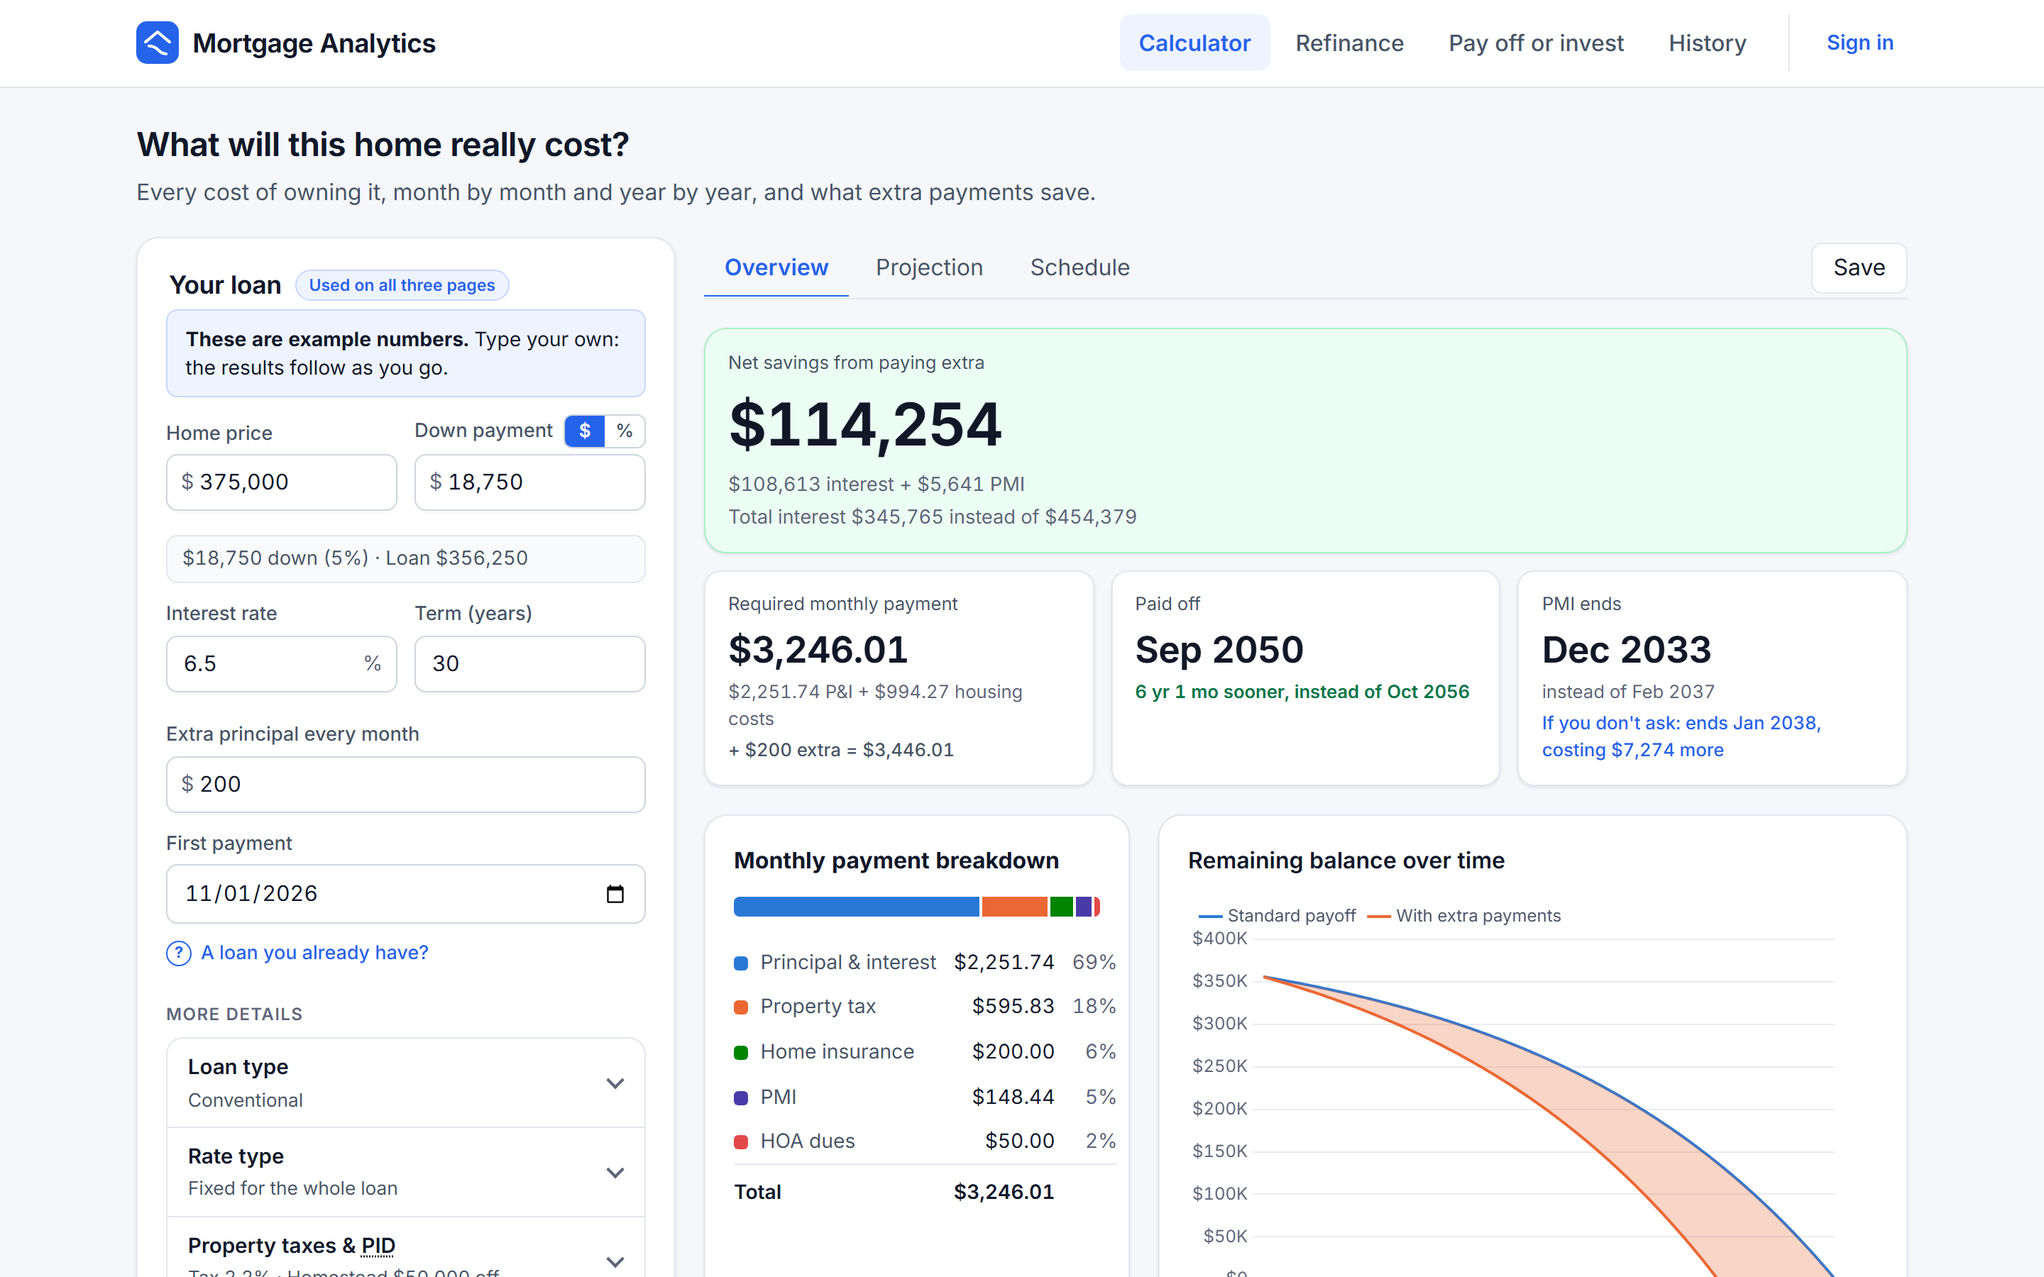
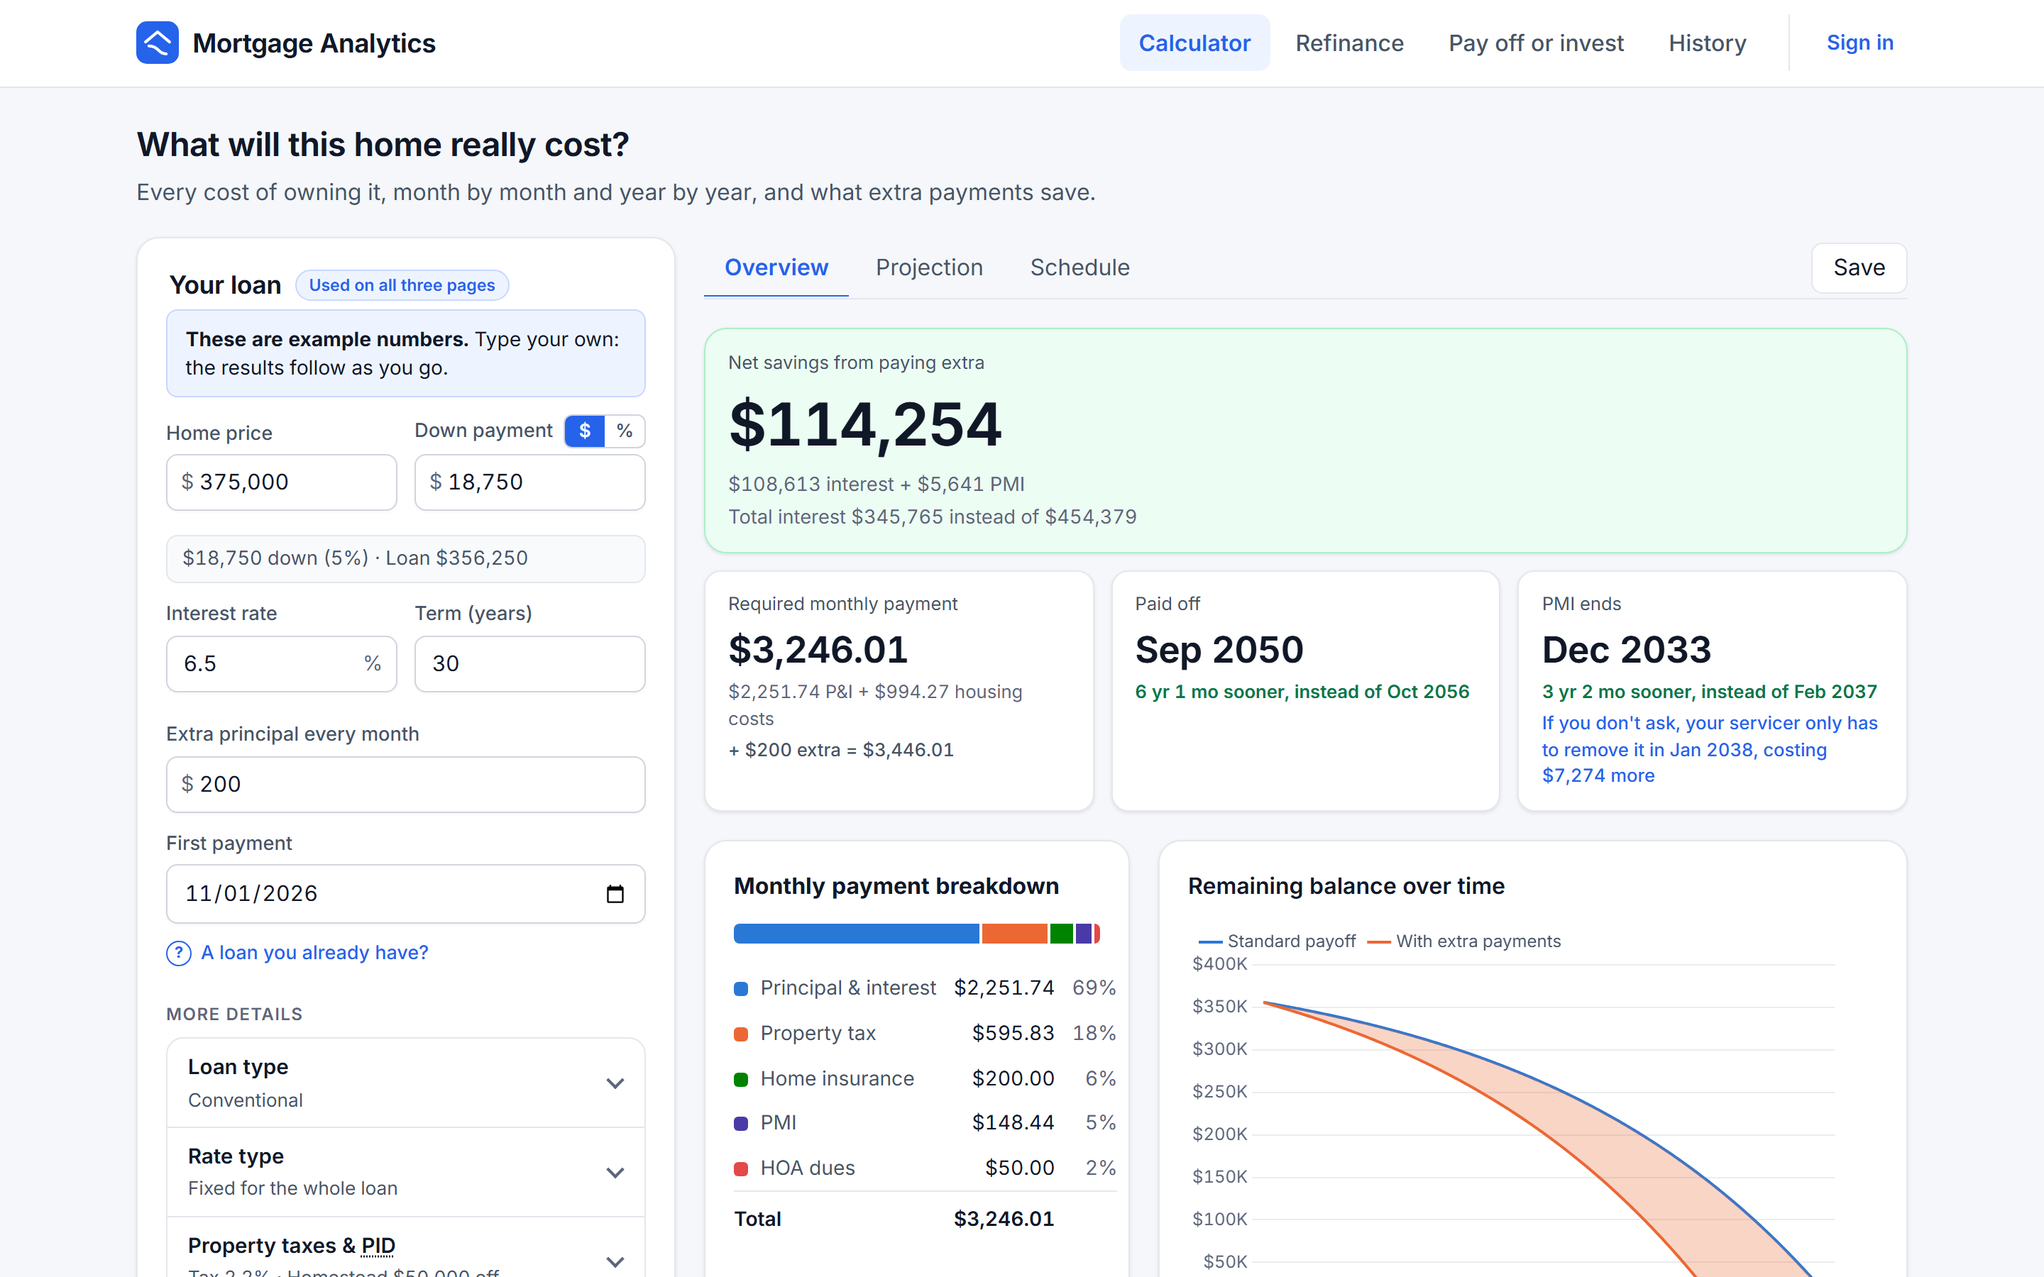
Mutation tests for the PMI work, a projection that agrees, and a review's fixes
Mutation runs (local):
- Domain 98.3%, Application 97.8%, Angular 98.0%; every mutant in the new
  PMI code is killed. New tests: a 0% PMI rate, PMI on the current loan
  only, the exact PMI end date, the 401(k) bringing income under the PMI
  deduction's limit, no PMI suggestion at the midpoint or on FHA, and what
  the Refinance and Pay off or invest stores share.

A page-by-page review:
- The Projection took PMI from the schedule without extra payments
  ($18,407 to year 11) while the Overview said $12,766 to Dec 2033. It now
  follows the plan with its extra payments, as the independent model does
  (300/300 purchases identical).
- The PMI tile says "3 yr 2 mo sooner, instead of Feb 2037", like the
  payoff tile, and "If you don't ask, your servicer only has to remove it
  in Jan 2038": the latest the law requires, not a forecast.
- History's filter and search fit a phone.

Changed region(s): [[0.3438, 0.6533, 0.9062, 1.0], [0.75, 0.5289, 0.9062, 0.6222]]

diff --git a/client/src/app/features/calculator/savings-summary/savings-summary.component.ts b/client/src/app/features/calculator/savings-summary/savings-summary.component.ts
@@ -77,7 +77,7 @@ const TAXES: readonly [keyof HousingCosts, string][] = [
           <dt>{{ insuranceName() }} ends</dt>
           <dd data-testid="pmi-end">{{ pmiEnd | date: 'MMM yyyy' }}</dd>
           @if (r.baseline.mortgageInsuranceEndDate !== pmiEnd) {
-            <dd class="note">instead of {{ r.baseline.mortgageInsuranceEndDate | date: 'MMM yyyy' }}</dd>
+            <dd class="note gain" data-testid="pmi-sooner">{{ pmiSooner() }} sooner, instead of {{ r.baseline.mortgageInsuranceEndDate | date: 'MMM yyyy' }}</dd>
           } @else {
             <dd class="note">{{ r.purchase.downPaymentPercent }}% down</dd>
           }
@@ -87,7 +87,8 @@ const TAXES: readonly [keyof HousingCosts, string][] = [
               @if (other.removal === 'BorrowerRequested') {
                 Ask your lender at 80%: ends {{ other.endDate | date: 'MMM yyyy' }}, saving {{ other.savedByAsking | currency: 'USD' : 'symbol' : '1.0-0' }}
               } @else {
-                If you don't ask: ends {{ other.endDate | date: 'MMM yyyy' }}, costing {{ other.savedByAsking | currency: 'USD' : 'symbol' : '1.0-0' }} more
+                <!-- Automatic removal is the latest the law requires; some servicers drop it sooner, but none has to. -->
+                If you don't ask, your servicer only has to remove it in {{ other.endDate | date: 'MMM yyyy' }}, costing {{ other.savedByAsking | currency: 'USD' : 'symbol' : '1.0-0' }} more
               }
             </dd>
           }
@@ -189,6 +190,13 @@ export class SavingsSummaryComponent {
 
   /** Payments saved, formatted as years and months. */
   readonly timeSaved = computed(() => formatMonths(this.result().savings.paymentsSaved));
+
+  /** How much sooner extra payments end the mortgage insurance, e.g. "3 yr 2 mo", like the payoff tile's time saved. */
+  readonly pmiSooner = computed(() => {
+    const { baseline, accelerated } = this.result();
+    const months = (iso: string | null | undefined) => (iso ? Number(iso.slice(0, 4)) * 12 + Number(iso.slice(5, 7)) : 0);
+    return formatMonths(months(baseline.mortgageInsuranceEndDate) - months(accelerated.mortgageInsuranceEndDate));
+  });
 
   /**
    * Where the net savings come from, e.g. "$79,801 interest + $6,531 PMI − $250 fees", or null when it is all

diff --git a/client/src/app/features/calculator/calculator.store.spec.ts b/client/src/app/features/calculator/calculator.store.spec.ts
@@ -7,7 +7,7 @@ import { SavedCalculation } from '../../core/models/saved-calculation.models';
 import { RefinanceRequest } from '../../core/models/refinance.models';
 import { firstOfMonthFromNext, loanToday } from '../../core/loans/loan-progress';
 import { SharedLoan, SharedLoanStore } from '../../core/state/shared-loan.store';
-import { CalculatorStore, RECALCULATE_DELAY_MS } from './calculator.store';
+import { CalculatorStore, RECALCULATE_DELAY_MS, monthlyPmiOf } from './calculator.store';
 
 describe('CalculatorStore', () => {
   let store: CalculatorStore;
@@ -157,5 +157,24 @@ describe('CalculatorStore', () => {
         expect(sharesAfter({ ...started, ...change } as AmortizationRequest, sharedStarted)).toBe(true);
       });
     });
+  });
+});
+
+describe('monthlyPmiOf', () => {
+  const fivePercentDown = { homePrice: 375_000, downPayment: 18_750, housingCosts: { pmiRate: 0.5 } } as AmortizationRequest;
+
+  it('is the yearly rate on the loan, a twelfth a month, when more than 80% is borrowed', () => {
+    expect(monthlyPmiOf(fivePercentDown)).toBe(148.44); // 0.5% of $356,250 / 12
+  });
+
+  it('is 0 with 20% down, or no PMI rate', () => {
+    expect(monthlyPmiOf({ ...fivePercentDown, downPayment: 75_000 })).toBe(0);
+    expect(monthlyPmiOf({ ...fivePercentDown, housingCosts: undefined })).toBe(0);
+    expect(monthlyPmiOf({ ...fivePercentDown, housingCosts: { ...fivePercentDown.housingCosts!, pmiRate: 0 } })).toBe(0);
+  });
+
+  it('is not said for FHA or VA, whose mortgage insurance is not PMI', () => {
+    expect(monthlyPmiOf({ ...fivePercentDown, program: { type: 'Fha' } } as AmortizationRequest)).toBeNull();
+    expect(monthlyPmiOf({ ...fivePercentDown, program: { type: 'Conventional' } } as AmortizationRequest)).toBe(148.44);
   });
 });

diff --git a/client/src/app/features/strategy/strategy.store.spec.ts b/client/src/app/features/strategy/strategy.store.spec.ts
@@ -3,6 +3,7 @@ import { of } from 'rxjs';
 import { StrategyComparison, StrategyRequest } from '../../core/models/strategy.models';
 import { StrategyApiService } from '../../core/services/strategy-api.service';
 import { RECALCULATE_DELAY_MS } from '../../core/state/latest-request';
+import { SharedLoanStore } from '../../core/state/shared-loan.store';
 import { StrategyStore } from './strategy.store';
 
 describe('StrategyStore', () => {
@@ -23,5 +24,20 @@ describe('StrategyStore', () => {
     expect(store.saved()).toEqual({ id: 's1', name: 'Pay off?' });
     expect(compare).toHaveBeenCalledWith(strategy);
     jest.useRealTimers();
+  });
+
+  it('shares the PMI on the loan, and none when the request gives none', () => {
+    TestBed.configureTestingModule({ providers: [{ provide: StrategyApiService, useValue: { compare: jest.fn().mockReturnValue(of({})) } }] });
+    const store = TestBed.inject(StrategyStore);
+    const shared = TestBed.inject(SharedLoanStore);
+    const request = { currentBalance: 370_000, annualInterestRate: 6.5, remainingTermInMonths: 360, homeValue: 400_000 } as StrategyRequest;
+
+    store.send(request); // the page's example, which is not shared
+    store.send({ ...request, monthlyPmi: 150 });
+    const withPmi = shared.change()!.loan.monthlyPmi;
+    store.send({ ...request, currentBalance: 360_000 });
+
+    expect(withPmi).toBe(150);
+    expect(shared.change()!.loan.monthlyPmi).toBe(0);
   });
 });

diff --git a/client/e2e/calculator.spec.ts b/client/e2e/calculator.spec.ts
@@ -265,10 +265,10 @@ test.describe('Mortgage calculator', () => {
     await calculator.calculate();
 
     await expect(calculator.pmiEnd, 'requested removal uses the actual balance: payment 62').toHaveText('Feb 2041');
-    await expect(calculator.message('instead of Apr 2046'), 'instead of payment 124').toBeVisible();
+    await expect(calculator.message('5 yr 2 mo sooner, instead of Apr 2046'), 'payment 62 instead of 124').toBeVisible();
     await expect(calculator.savingsDetail, 'the PMI saved is part of net savings').toContainText('+ $6,136 PMI');
     await expect(calculator.pmiOtherChoice, 'not asking would keep it to payment 135: $13,359.60 - $6,135.52 more')
-      .toHaveText("If you don't ask: ends Mar 2047, costing $7,224 more");
+      .toHaveText("If you don't ask, your servicer only has to remove it in Mar 2047, costing $7,224 more");
   });
 
   test('automatic PMI removal follows the original schedule, so extra payments do not move it', async ({ calculator }) => {

diff --git a/client/src/app/features/calculator/savings-summary/savings-summary.component.spec.ts b/client/src/app/features/calculator/savings-summary/savings-summary.component.spec.ts
@@ -225,7 +225,7 @@ describe('SavingsSummaryComponent', () => {
     }));
 
     expect(text('pmi-end')).toBe('Sep 2031');
-    expect(fixture.nativeElement.textContent).toContain('instead of Mar 2037');
+    expect(text('pmi-sooner')).toBe('5 yr 6 mo sooner, instead of Mar 2037'); // like the payoff tile beside it
   });
 
   it("names an FHA loan's mortgage insurance MIP", () => {
@@ -283,7 +283,7 @@ describe('SavingsSummaryComponent', () => {
     it('says what not asking would cost, since the results assume the borrower asks', () => {
       render(withPmi({ removal: 'Automatic', endDate: '2038-01-01', savedByAsking: 4_947.98 }));
 
-      expect(text('pmi-other-choice')).toBe("If you don't ask: ends Jan 2038, costing $4,948 more");
+      expect(text('pmi-other-choice')).toBe("If you don't ask, your servicer only has to remove it in Jan 2038, costing $4,948 more");
     });
 
     it('says nothing when both ways end it together', () => {

diff --git a/client/src/app/features/refinance/refinance.store.spec.ts b/client/src/app/features/refinance/refinance.store.spec.ts
@@ -86,4 +86,18 @@ describe('RefinanceStore and the shared loan', () => {
 
     expect(analyze).not.toHaveBeenCalled();
   });
+
+  it("shares the home's value and today's PMI, and neither when no value is given", () => {
+    const { store, shared } = setUp();
+    store.send(loan()); // the page's example, which is not shared
+    store.send(loan({ homeValue: 360_000, currentMonthlyPmi: 120 }));
+    const withPmi = { ...shared.change()!.loan };
+    store.send(loan({ currentBalance: 290_000, homeValue: 360_000 }));
+    const noPmiGiven = shared.change()!.loan.monthlyPmi;
+    store.send(loan({ currentBalance: 280_000 }));
+
+    expect(withPmi).toEqual(expect.objectContaining({ homeValue: 360_000, monthlyPmi: 120 }));
+    expect(noPmiGiven).toBe(0);
+    expect(shared.change()!.loan).toEqual(expect.objectContaining({ balance: 280_000, homeValue: 360_000, monthlyPmi: 0 })); // kept
+  });
 });

diff --git a/client/src/app/features/strategy/strategy-text.spec.ts b/client/src/app/features/strategy/strategy-text.spec.ts
@@ -87,6 +87,9 @@ describe('strategy text', () => {
       expect(facts(result)).toContain("Your PMI ends once you owe 80% of the home's value: Feb 2030 if you pay down first, Feb 2035 if you invest. "
         + "Paying down saves $9,000 of it, a return investing doesn't earn.");
       expect(facts(base).some((line) => line.includes('PMI'))).toBe(false);
+
+      const atOnce = { ...result, strategies: [withPmi('PayOffFirst', 0, null as unknown as string), ...result.strategies.slice(1)] };
+      expect(facts(atOnce).find((line) => line.includes('PMI'))).toContain('at once if you pay down first, Feb 2035 if you invest');
     });
 
     it('blends the IRA with a taxable account, taxed only when sold', () => {

diff --git a/client/src/app/features/calculator/calculator.store.ts b/client/src/app/features/calculator/calculator.store.ts
@@ -83,6 +83,5 @@ export class CalculatorStore extends CalculationStore<AmortizationRequest, Amort
 export function monthlyPmiOf(request: AmortizationRequest): number | null {
   if (request.program && request.program.type !== 'Conventional') return null;
   const loan = request.homePrice - request.downPayment;
-  const rate = request.housingCosts?.pmiRate ?? 0;
-  return loan > request.homePrice * 0.8 && rate > 0 ? toCents((loan * rate) / 100 / 12) : 0;
+  return loan > request.homePrice * 0.8 ? toCents((loan * (request.housingCosts?.pmiRate ?? 0)) / 100 / 12) : 0;
 }

diff --git a/client/src/app/features/history/history-page.component.scss b/client/src/app/features/history/history-page.component.scss
@@ -205,9 +205,25 @@ button {
   padding: 0.9rem 1.1rem;
 }
 
-// One column on a phone: filters and search start at the left, under the title.
+// One column on a phone: filters and search start at the left, under the title, each the full width, with every
+// filter on one line.
 @media (max-width: 640px) {
   .filters {
     justify-content: flex-start;
+  }
+
+  .toggle {
+    display: flex;
+    width: 100%;
+
+    button {
+      flex: 1 1 auto;
+      padding-inline: 0.5rem;
+      white-space: nowrap;
+    }
+  }
+
+  .search {
+    width: 100%;
   }
 }

diff --git a/client/src/app/features/calculator/cost-projection/cost-totals.component.ts b/client/src/app/features/calculator/cost-projection/cost-totals.component.ts
@@ -63,7 +63,7 @@ import { costTotals, startingYear } from './cost-totals';
           </tfoot>
         </table>
       </div>
-      <p class="note">These continue after the loan is paid off, so they run the full term. Click a year on the chart to see it here.</p>
+      <p class="note">Taxes, insurance and dues continue after the loan is paid off, so they run the full term; mortgage insurance ends on your plan, with its extra payments. Click a year on the chart to see it here.</p>
     </section>
   `,
   styleUrl: './cost-totals.component.scss',

diff --git a/src/MortgageAnalytics.Application/Mapping/AmortizationMapper.cs b/src/MortgageAnalytics.Application/Mapping/AmortizationMapper.cs
@@ -203,7 +203,7 @@ internal static class AmortizationMapper
                 comparison.TotalExtraPrincipal,
                 comparison.Baseline.PayoffDate,
                 comparison.Accelerated.PayoffDate),
-            ToProjection(comparison.Baseline, comparison.BaselineCosts, comparison.Accelerated, rates.Loan.Principal, valuation, plan),
+            ToProjection(comparison.Baseline, comparison.BaselineCosts, comparison.Accelerated, comparison.AcceleratedCosts, rates.Loan.Principal, valuation, plan),
             rates.Buydown is { } buydown ? ToResponse(buydown, rates.Loan, comparison.Baseline, rates.BuydownPaidBy) : null,
             rates.WorstCase is { } worst ? ToResponse(worst) : null,
             closing is null ? null : ToResponse(CashToCloseFor(closing, purchase, comparison, rates)),
@@ -313,12 +313,13 @@ internal static class AmortizationMapper
 
     /// <summary>
     /// One row per year of the standard schedule. The standard schedule is used because it spans
-    /// the full term, and taxes, insurance and dues continue whether or not the loan is paid off early. The balance
-    /// and equity follow the <paramref name="accelerated"/> schedule instead: what will actually be owed on the plan.
+    /// the full term, and taxes, insurance and dues continue whether or not the loan is paid off early. Mortgage
+    /// insurance, the balance and equity follow the <paramref name="accelerated"/> schedule instead: PMI stops when the
+    /// loan actually paid reaches 80% (or is paid off), and the balance is what will actually be owed on the plan.
     /// </summary>
     private static List<YearProjectionResponse> ToProjection(
-        AmortizationSchedule schedule, HousingCostSchedule costs, AmortizationSchedule accelerated, decimal principal,
-        PropertyValuation valuation, HousingCostPlan plan)
+        AmortizationSchedule schedule, HousingCostSchedule costs, AmortizationSchedule accelerated, HousingCostSchedule acceleratedCosts,
+        decimal principal, PropertyValuation valuation, HousingCostPlan plan)
     {
         // Owed at the start of a year: the loan before the first payment, then the balance after the year before's last
         // payment, and nothing once the loan is paid off.
@@ -328,6 +329,10 @@ internal static class AmortizationMapper
         var taxes = plan.Taxes.ToDictionary(t => t.Category);
         decimal? TaxableValue(HousingCostCategory category, int year) =>
             taxes.TryGetValue(category, out var tax) ? tax.TaxableValueInYear(year) : null;
+
+        // The plan's mortgage insurance that year, and none once its loan is paid off.
+        decimal InsuranceIn(int index) =>
+            acceleratedCosts.ByYear.ElementAtOrDefault(index)?[HousingCostCategory.MortgageInsurance] ?? 0m;
 
         return costs.ByYear
             .Select((year, index) => new YearProjectionResponse(
@@ -339,7 +344,7 @@ internal static class AmortizationMapper
                 TaxableValue(HousingCostCategory.LocalTax, index),
                 TaxableValue(HousingCostCategory.MudTax, index),
                 TaxableValue(HousingCostCategory.PropertyTax, index),
-                ToResponse(year),
+                ToResponse(year.With(HousingCostCategory.MortgageInsurance, InsuranceIn(index))),
                 BalanceAtStartOf(index),
                 valuation.MarketValueInYear(index) - BalanceAtStartOf(index)))
             .ToList();

diff --git a/tests/MortgageAnalytics.Application.Tests/Services/HomesteadAndProjectionTests.cs b/tests/MortgageAnalytics.Application.Tests/Services/HomesteadAndProjectionTests.cs
@@ -1,3 +1,4 @@
+using MortgageAnalytics.Application.Contracts;
 using Extra200 = MortgageAnalytics.Testing.ReferenceLoans.StandardWithMonthlyExtra200;
 using Standard = MortgageAnalytics.Testing.ReferenceLoans.Standard;
 
@@ -290,6 +291,25 @@ public class HomesteadAndProjectionTests : SociableAnalysisTestBase
             Assert.That(projection[1].LoanBalance, Is.LessThan(197_543.99m), "less than without them");
             Assert.That(projection[paidOffInYear].LoanBalance, Is.Zero, $"nothing is owed once the loan is paid off in year {paidOffInYear}");
             Assert.That(projection[paidOffInYear].Equity, Is.EqualTo(projection[paidOffInYear].MarketValue), "so the whole home is equity");
+        });
+    }
+
+    [Test]
+    public void Projection_PmiStopsWhenThePlanWithExtraPaymentsReaches80Percent()
+    {
+        // Taxes, insurance and dues run the full term whatever is paid extra; PMI stops with the loan actually paid.
+        var request = A.Request.FivePercentDown().WithMonthlyExtra(300m)
+            .WithHousingCosts(c => c.WithPmi(0.5m, PmiCancellation.BorrowerRequested).WithHoa(50m));
+
+        var response = Service.Analyze(request);
+        var projected = response.Projection.Sum(y => y.Costs.MortgageInsurance);
+
+        Assert.Multiple(() =>
+        {
+            Assert.That(projected, Is.EqualTo(response.Accelerated.TotalHousingCosts.MortgageInsurance), "the PMI the plan pays, as the overview says");
+            Assert.That(projected, Is.LessThan(response.Baseline.TotalHousingCosts.MortgageInsurance), "not the standard schedule's");
+            Assert.That(response.Projection.Sum(y => y.Costs.HoaDues), Is.EqualTo(response.Projection.Count * 600m), "dues run every year");
+            Assert.That(response.Projection.All(y => y.Costs.Total == y.Costs.MortgageInsurance + y.Costs.HoaDues), Is.True, "each total follows");
         });
     }
 }
